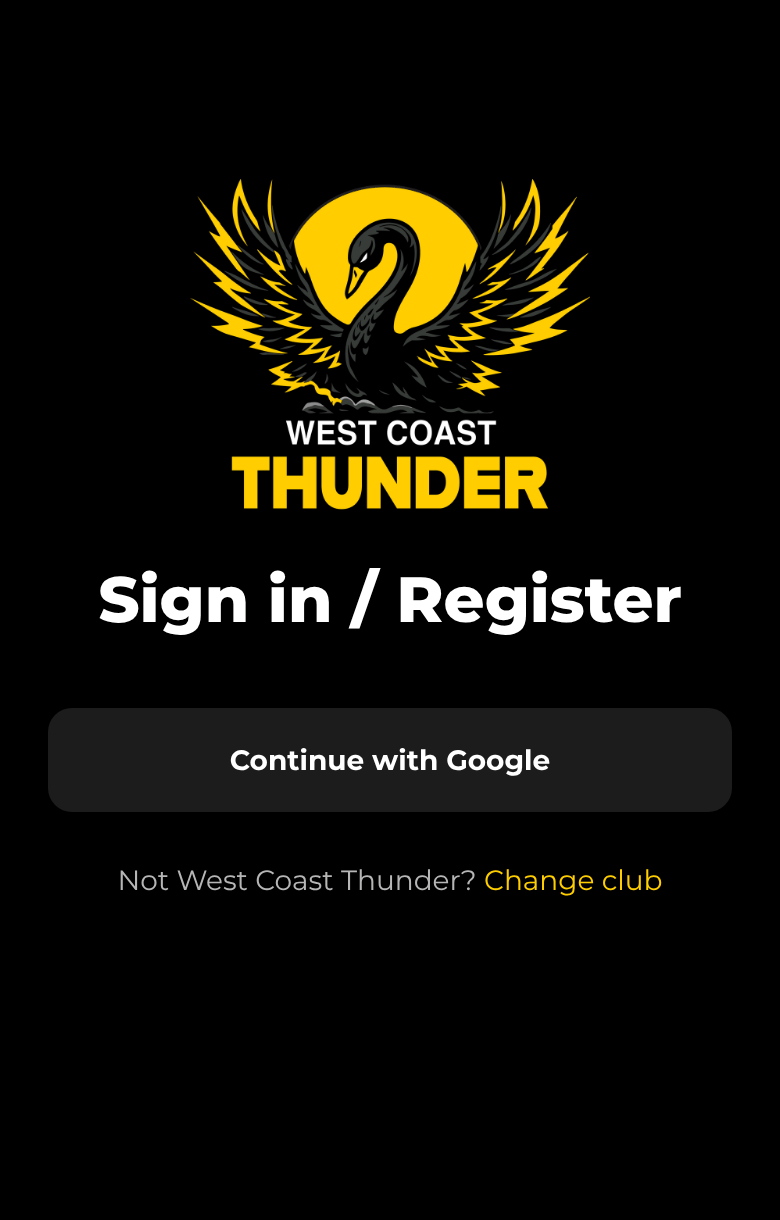
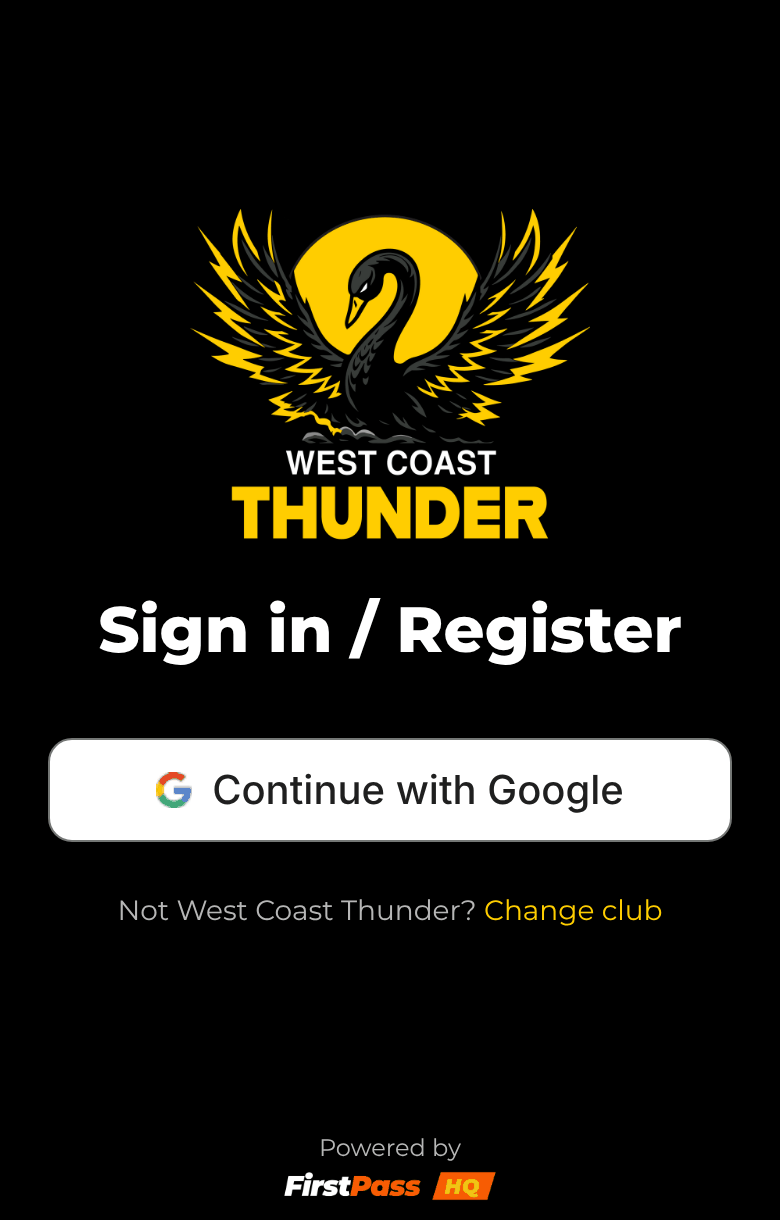
Match the Google sign-in button to Apple's
White button with Google's standard multicolour G beside the words, Google's
light-theme outline and text colour, and the same height, corners and letter
size as Apple's Continue with Apple button. Tests check the look; the user
guide and its sign-in screenshot show the new button.

Claude-Session: https://claude.ai/code/session_019HSmiDBwisy2L2bCqtkMXo

Changed region(s): [[0.0615, 0.1246, 0.9538, 0.7787], [0.3692, 0.9344, 0.6462, 0.9967]]

diff --git a/src/app/sign-in.tsx b/src/app/sign-in.tsx
@@ -9,6 +9,7 @@ import {
   ActivityIndicator,
   Pressable,
   StyleSheet,
+  Text,
   TextInput,
   View,
 } from "react-native";
@@ -28,6 +29,13 @@ import {
   signInWithApple,
   signInWithGoogle,
 } from "@/lib/sign-in";
+
+// Google's standard multicolour "G" (assets/images/google-g.svg is the source).
+// Relative, not "@/assets", so Jest can load it too.
+const GOOGLE_G = require("../../assets/images/google-g.png");
+// Colours of Google's light-theme sign-in button.
+const GOOGLE_TEXT = "#1F1F1F";
+const GOOGLE_OUTLINE = "#747775";
 
 export default function SignInScreen() {
   const theme = useTheme();
@@ -169,22 +177,35 @@ export default function SignInScreen() {
                   />
                 ) : null}
 
+                {/* Google's light-theme button from its sign-in branding
+                    guidelines (white, grey outline, dark text, the full-colour
+                    G never recoloured), sized and lettered to match Apple's
+                    button above it. */}
                 <Pressable
+                  testID="google-sign-in"
                   accessibilityRole="button"
+                  accessibilityLabel="Continue with Google"
                   disabled={busy !== null}
                   onPress={() => run("google", signInWithGoogle)}
                   style={({ pressed }) => [
                     styles.button,
-                    {
-                      backgroundColor: theme.backgroundElement,
-                      opacity: pressed ? 0.7 : 1,
-                    },
+                    styles.googleButton,
+                    { opacity: pressed ? 0.7 : 1 },
                   ]}
                 >
                   {busy === "google" ? (
-                    <ActivityIndicator />
+                    <ActivityIndicator color={GOOGLE_TEXT} />
                   ) : (
-                    <ThemedText type="smallBold">Continue with Google</ThemedText>
+                    <View style={styles.googleContent}>
+                      <Image
+                        testID="google-logo"
+                        source={GOOGLE_G}
+                        style={styles.googleLogo}
+                        contentFit="contain"
+                        accessible={false}
+                      />
+                      <Text style={styles.googleText}>Continue with Google</Text>
+                    </View>
                   )}
                 </Pressable>
               </>
@@ -262,6 +283,27 @@ const styles = StyleSheet.create({
   appleButton: {
     height: 52,
     width: "100%",
+  },
+  googleButton: {
+    backgroundColor: "#FFFFFF",
+    borderWidth: 1,
+    borderColor: GOOGLE_OUTLINE,
+  },
+  googleContent: {
+    flexDirection: "row",
+    alignItems: "center",
+    gap: 10,
+  },
+  googleLogo: {
+    width: 18,
+    height: 18,
+  },
+  // The phone's own font at the size Apple's 52-high button uses, so the two
+  // buttons read the same (Roboto on Android, as Google asks).
+  googleText: {
+    color: GOOGLE_TEXT,
+    fontSize: 20,
+    fontWeight: "500",
   },
   input: {
     height: 52,

diff --git a/src/__tests__/sign-in-screens.test.tsx b/src/__tests__/sign-in-screens.test.tsx
@@ -183,6 +183,30 @@ describe('signing in', () => {
     expect(screen.getByText(/^Not West Coast Thunder\?/)).toBeTruthy();
   });
 
+  it('styles Google’s button like Apple’s: white, Google’s outline, the G logo and the same size', async () => {
+    await open('/sign-in', { 'club-code': 'THUNDER' });
+    const button = screen.getByTestId('google-sign-in');
+    expect(button.props.accessibilityLabel).toBe('Continue with Google');
+    // Same height and corners as Apple's button; Google's light-theme colours.
+    const box = StyleSheet.flatten(button.props.style) as Record<string, unknown>;
+    expect(box).toMatchObject({
+      height: 52,
+      borderRadius: 12,
+      backgroundColor: '#FFFFFF',
+      borderWidth: 1,
+      borderColor: '#747775',
+    });
+    // Google's full-colour G, beside the words, never tinted.
+    const logo = screen.getByTestId('google-logo');
+    const logoStyle = StyleSheet.flatten(logo.props.style) as Record<string, unknown>;
+    expect(logoStyle).toMatchObject({ width: 18, height: 18 });
+    expect(logoStyle.tintColor).toBeUndefined();
+    expect(logo.props.tintColor).toBeUndefined();
+    // Apple's button letters at about 19 points; Google's dark text colour.
+    const words = StyleSheet.flatten(screen.getByText('Continue with Google').props.style);
+    expect(words).toMatchObject({ color: '#1F1F1F', fontSize: 20, fontWeight: '500' });
+  });
+
   it('starts Google sign-in once, however often it’s tapped while busy', async () => {
     let finish: () => void = () => {};
     google.mockImplementation(() => new Promise<void>((r) => (finish = r)));

diff --git a/docs/user-guide.md b/docs/user-guide.md
@@ -260,7 +260,8 @@ its own code.
 There are no passwords to remember: you sign in with an account you already have. The same
 buttons are used whether you're new or coming back. (The demo club above is the one exception.)
 
-- **On Android**, tap **Continue with Google** and choose your Google account.
+- **On Android**, tap the white **Continue with Google** button, with Google's coloured **G**,
+  and choose your Google account.
 - **On iPhone or iPad**, you can also tap **Continue with Apple**, above the Google button, and
   confirm with Face ID, Touch ID or your passcode. Apple asks whether to share your email or
   **Hide My Email**. Either works.
@@ -280,7 +281,8 @@ If you picked the wrong club, tap **Change club** under the buttons.
 <img src="user-guide/sign-in.png" width="210" alt="Sign-in screen on Android, with Continue with Google">
 
 The picture shows the Android screen; on iPhone, Apple's white **Continue with Apple** button sits
-above **Continue with Google**.
+above **Continue with Google**. The two buttons match: both white, the same size, each with its
+company's logo beside the words.
 
 ### Belonging to more than one club
 
